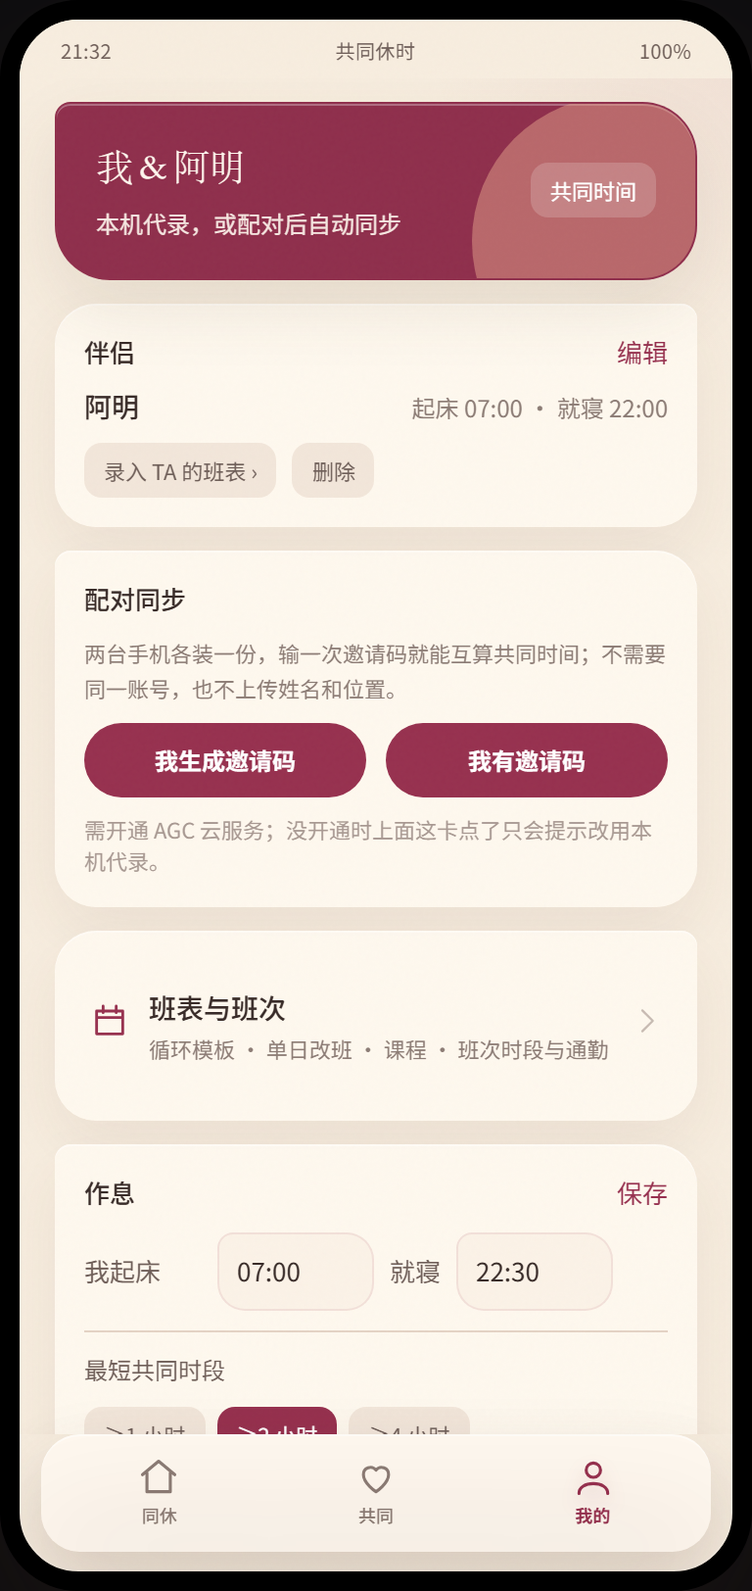
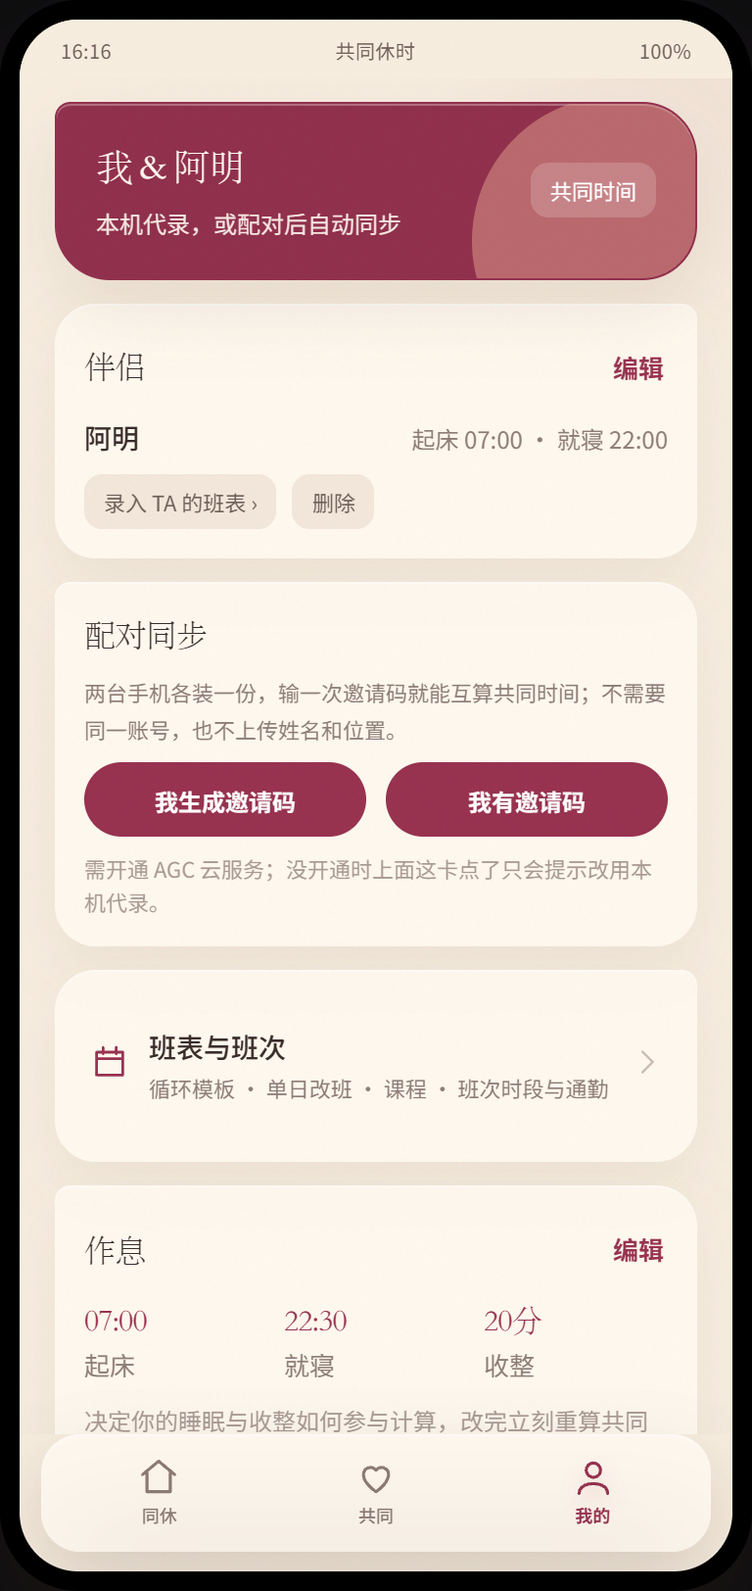
docs(prototype): 作息卡与编辑体眉标回灌，原型跟改 D-19＋N-01
App 侧一行未改：这两条的判定都是「改原型」，App 的只读三格＋「编辑」＋
高级设置折叠（MeView.rhythmCard）比原型的整卡内联可编辑更简，EditorialSection
的眉标版式也是原型欠的账。

原型跟改后顺带消掉三处自相矛盾：折叠脚注把「收整」当成引擎默认值（它是三个
常驻主参数之一）、卡头写「四个主入口」却只画得出 3 行、D-15/D-16 各自挂起的
「留给这轮定」的口径差。伴侣与配对同步的合卡属主观结构差，只登记不合并。

diff --git a/docs/prototype/index.html b/docs/prototype/index.html
@@ -249,6 +249,28 @@ body.lean-mode .arow::before{content:"";position:absolute;left:0;top:18px;width:
 body.lean-mode .arow:hover{transform:translateX(3px)}
 body.lean-mode .arow+.arow{border-top:1px solid color-mix(in srgb,var(--divider) 72%,transparent)}
 body.lean-mode .answer-value{font-family:"Iowan Old Style","Songti SC","STSong",serif;font-size:17px;font-weight:500;letter-spacing:-.025em}
+/* N-01：App 的 EditorialSection 版式（component/EditorialSection.ets）——眉标 + 衬线小标题 + 右侧动作。
+   眉标在 App 长辈模式下收起，所以只算装饰，正文含义全在小标题里。 */
+body.lean-mode .sect-head{padding:15px 2px 0}
+body.lean-mode .answer-card .sect-head{padding-left:10px}
+body.lean-mode .sect-eyebrow{color:var(--brand_pink);font-size:13px;line-height:1.1;letter-spacing:.08em;margin-bottom:5px}
+body.lean-mode .sect-row{display:flex;align-items:center;gap:8px}
+body.lean-mode .sect-title{flex:1;font-family:"Iowan Old Style","Songti SC","STSong",serif;font-size:21px;font-weight:500;
+letter-spacing:-.035em;line-height:1.15;color:var(--text_primary)}
+body.lean-mode .sect-act{flex:0 0 auto;font-size:13px;font-weight:600;color:var(--brand_pink);cursor:pointer;padding:8px 2px}
+/* D-19：App 的 EditorialCard 卡头（MeView.cardHead）是 16fp 衬线 + 右侧 13fp 品牌色动作 */
+body.lean-mode .cd-head{display:flex;align-items:center;gap:8px}
+body.lean-mode .cd-title{flex:1;font-family:"Iowan Old Style","Songti SC","STSong",serif;font-size:16px;font-weight:500;
+letter-spacing:-.02em;color:var(--text_primary)}
+body.lean-mode .cd-act{flex:0 0 auto;font-size:13px;font-weight:600;color:var(--brand_pink);cursor:pointer;padding:8px 2px}
+/* D-19：三个主参数常驻为只读格，视界与最短共同时段收进「高级设置」折叠 */
+body.lean-mode .stat-row{display:flex;gap:8px}
+body.lean-mode .stat{flex:1;display:flex;flex-direction:column;gap:2px}
+body.lean-mode .stat b{font-family:"Iowan Old Style","Songti SC","STSong",serif;font-size:16px;font-weight:500;
+letter-spacing:-.02em;line-height:1.2;color:var(--brand_pink)}
+body.lean-mode .stat span{font-size:13px;color:var(--text_tertiary)}
+body.lean-mode .adv-head{display:flex;align-items:center;gap:5px;min-height:44px;font-size:13px;color:var(--text_secondary);cursor:pointer}
+body.lean-mode .adv-head .cw{flex:0 0 auto;color:var(--text_tertiary)}
 body.lean-mode .chip{
 min-height:28px;border-radius:9px;padding:5px 10px;background:color-mix(in srgb,var(--fill_weak) 82%,transparent);
 font-size:11px;transition:transform 550ms cubic-bezier(.22,1,.36,1),opacity 350ms cubic-bezier(.22,1,.36,1)
@@ -256,6 +278,8 @@ font-size:11px;transition:transform 550ms cubic-bezier(.22,1,.36,1),opacity 350m
 body.lean-mode .chip:hover{transform:translateY(-1px)}
 body.lean-mode .chip:active,body.lean-mode .btn:active{transform:scale(.98)}
 body.lean-mode .chip.on{background:var(--brand_pink);color:#fff}
+/* D-16：回到本周的那颗——品牌色淡底 + 品牌色字，12fp / radius 10（同 WeekScheduleView.currentWeekChip） */
+body.lean-mode .chip.soft{background:var(--brand_pink_bg);color:var(--brand_pink);font-weight:600;font-size:12px;border-radius:10px;padding:4px 8px}
 body.lean-mode .chip.blue-on{background:var(--brand_pink);color:#fff}
 body.lean-mode .tag{border-radius:5px;padding:4px 7px;font-size:9px;letter-spacing:.02em}
 body.lean-mode .btn{
@@ -492,6 +516,8 @@ function seedState(){
     seg:'window', view:'list', filter:'ALL',
     calY:dayParts(TODAY).y, calM:dayParts(TODAY).m, weekStart:TODAY - (weekdayOf(TODAY) - 1),
     sheet:null, sheetWin:null, dayOpen:null, anchorWhich:'anchor',
+    // D-19：作息卡默认只读，「编辑」态与「高级设置」折叠各自独立于全局参数
+    meEdit:false, meDraft:null, advOpen:false,
     dlg:null, privacy:false,
     params:defaultParams(),
     partner:{ nick:'阿明', wakeMin:420, bedMin:1320, windDownMin:20, exists:true },
@@ -788,7 +814,7 @@ seedPlans();
 compute();
 /* ========== 4. 图标（SymbolGlyph 替身） ========== */
 var PATHS = {
-  chevL:'M15 4l-8 8 8 8', chevR:'M9 4l8 8-8 8',
+  chevL:'M15 4l-8 8 8 8', chevR:'M9 4l8 8-8 8', chevU:'M6 14l6-6 6 6', chevD:'M6 10l6 6 6-6',
   house:'M3 10.5 12 3l9 7.5M5.5 9.5V20h13V9.5',
   heart:'M12 20s-7-4.6-7-9.5A3.9 3.9 0 0 1 12 8a3.9 3.9 0 0 1 7 2.5C19 15.4 12 20 12 20z',
   calendar:'M4 6h16v14H4zM4 10h16M8 3v4M16 3v4',
@@ -878,7 +904,19 @@ function answerRow(label, value, sub, act, data){
     + '<div class="answer-value">' + value + '</div>' + (sub ? '<div class="t11 c3">' + sub + '</div>' : '') + '</div>'
     + '<span style="color:var(--text_disabled)">' + ic('chevR', 16) + '</span></div>';
 }
-/* 精简版首页：一屏只回答三个问题——今晚能吃饭吗 / 下个完整同休日 / 最近能不能出行 */
+/** EditorialSection 的镜像：眉标 + 衬线小标题 + 可选右侧动作；内容紧接其后自行拼接。 */
+function sectHead(eyebrow, title, actHtml){
+  return '<div class="sect-head"><div class="sect-eyebrow">' + eyebrow + '</div>'
+    + '<div class="sect-row"><div class="sect-title">' + title + '</div>' + (actHtml || '') + '</div></div>';
+}
+/** EditorialCard 的卡头镜像（MeView.cardHead）：卡内标题比小节标题小一档，右侧是纯文字动作。 */
+function cdHead(title, src, actHtml){
+  return '<div class="cd-head"><div class="cd-title">' + title + srcTag(src) + '</div>' + (actHtml || '') + '</div>';
+}
+/** 与 feature/…/model/RhythmRules.ets 的 horizonLabel / minSlotLabel 同一口径。 */
+function horizonLabel(d){ var m = Math.round(d / 30); return m < 1 ? '未来 ' + d + ' 天' : '未来 ' + m + ' 个月'; }
+function minSlotLabel(v){ return '≥ ' + (v % 60 === 0 ? (v / 60) + ' 小时' : v + ' 分钟'); }
+/* 精简版首页：一屏只回答三个问题——今晚能一起吗 / 下个完整同休日 / 最近能出行吗（措辞同 D-14 定稿后的 App） */
 function leanDaysTxt(w){
   var fd = Math.floor(w.start / MIN), ld = Math.floor((w.end - 1) / MIN);
   return ld > fd ? (ld - fd + 1) + ' 天（跨夜）' : duration(w.end - w.start);
@@ -926,13 +964,14 @@ function scrHomeLean(){
       + (cc.alt ? '<span class="chip" data-act="reschedule" data-id="' + cp.id + '">改到 ' + hm(cc.alt.start) + '</span>' : '') + '</div>';
   }
   html += '<div class="card answer-card mt12">'
-    + answerRow('今晚 / 明晚能一起吃饭吗', meal
+    + sectHead('三个问题', '先看结论', '<span class="sect-act" data-act="refresh">刷新</span>')
+    + answerRow(pt.exists ? '今晚能一起吗' : '今晚我有空吗', meal
       ? (Math.floor(meal.start / MIN) === TODAY ? '今晚' : '明晚') + ' ' + hm(Math.max(meal.start, Math.floor(meal.start / MIN) * MIN + 1050)) + ' 之后有空'
       : '这两天没有晚饭时段', meal ? endLabel(meal.start, meal.end) : '换个筛选看看更早的窗口',
       'openWin', meal ? 'data-w="' + meal.start + '" data-e="' + meal.end + '"' : (w ? 'data-w="' + w.start + '" data-e="' + w.end + '"' : 'data-w="0"'))
     + answerRow('下个完整同休日', full ? mdw(Math.floor(full.start / MIN)) : '视界内暂无',
       full ? leanDaysTxt(full) + ' · 双方零排班' : '', 'filter', 'data-f="FULL_DAY"')
-    + answerRow('最近能不能出行', trip ? mdw(Math.floor(trip.start / MIN)) + ' 起' : '暂无 ≥24 小时段',
+    + answerRow('最近能出行吗', trip ? mdw(Math.floor(trip.start / MIN)) + ' 起' : '暂无 ≥24 小时段',
       trip ? '连着 ' + leanDaysTxt(trip) : '', 'filter', 'data-f="GTE24H"')
     + '</div>';
   var free = 0;
@@ -1007,8 +1046,8 @@ function windowMiniRow(w){
 function scrCoTime(){
   var html = '<div class="page"><div class="hd" style="padding-bottom:6px"><div class="col lw" style="gap:2px">'
     + '<div class="t17 b7">共同时间' + srcTag('CoTimeView.ets') + '</div>'
-    + '<div class="t11 c3">' + (S.partner.exists ? esc(S.partner.nick) + ' · 未来 '
-      + (S.lean ? Math.round(S.params.horizonDays / 30) + ' 个月' : S.params.horizonDays + ' 天') : '单人模式 · 仅我的空闲') + '</div></div>'
+    + '<div class="t11 ' + (S.partner.exists ? 'pink' : 'c3') + '">'
+    + (S.partner.exists ? esc(S.partner.nick) : '单人模式') + ' · ' + horizonLabel(S.params.horizonDays) + '</div></div>'
     + '</div><div class="body">'
     + '<div class="seg" style="margin-bottom:8px"><button class="' + (S.seg === 'window' ? 'on' : '') + '" data-act="seg" data-v="window">窗口</button>'
     + '<button class="' + (S.seg === 'plan' ? 'on' : '') + '" data-act="seg" data-v="plan">计划</button></div>';
@@ -1140,9 +1179,12 @@ function coWeekGrid(){
     : '点某一天看当日明细、临时改班。';
   return '<div class="card"><div class="row between" style="margin-bottom:6px">'
     + '<span class="chip" data-act="weekNav" data-k="-1">' + ic('chevL', 12) + '</span>'
-    + '<span class="t13 b5" data-act="weekToday" style="cursor:pointer">' + md(ws) + ' – ' + md(ws + 6) + (ws === curWeek ? '' : ' · 回本周') + srcTag('CoTimeView.ets') + '</span>'
+    + '<span class="t13 b5" data-act="weekToday" style="cursor:pointer">' + md(ws) + ' – ' + md(ws + 6) + srcTag('CoTimeView.ets') + '</span>'
     + '<span class="chip" data-act="weekNav" data-k="1">' + ic('chevR', 12) + '</span></div>'
-    + '<div class="t10" style="color:var(--text_hint);text-align:right;margin-bottom:2px">纵轴 ' + pad2(h0) + ':00–' + (h1 >= 24 ? '24' : pad2(h1)) + ':00</div>'
+    /* D-16 已落地的形状：纵轴说明与「本周」同排右对齐，压在星期行之上，不挤进那 7 列 */
+    + '<div class="row gap8" style="justify-content:flex-end;align-items:center;margin-bottom:2px">'
+    + '<span class="t10" style="color:var(--text_hint)">纵轴 ' + pad2(h0) + '–' + (h1 >= 24 ? '24' : pad2(h1)) + '</span>'
+    + '<span class="chip soft" data-act="weekToday">本周</span></div>'
     + '<div class="row" style="margin-bottom:4px"><div style="width:26px;flex:0 0 26px"></div><div class="whead">' + head + '</div></div>'
     + '<div style="display:flex;--hh:' + HOUR_H + 'px;--gh:' + GH + 'px"><div class="clabels">' + labels + '</div><div class="ccols">' + cols + '</div></div>'
     + '<div class="row wrapf gap8 mt8" style="font-size:10px;color:var(--text_hint)">'
@@ -1212,15 +1254,34 @@ function scrHub(){
     { s:'editor', i:'gear', t:'班次类型', d:'时段、通勤、夜班恢复、颜色' },
     { s:'ocr', i:'camera', t:'拍照识别课表', d:'Core Vision Kit 本地 OCR' }
   ];
-  if (S.lean) {
-    entries = entries.filter(function(x){ return x.s !== 'month' && x.s !== 'ocr' && x.s !== 'card'; });
-    entries[0].d = '序列 + 锚点，一次配置自动铺开';
-  }
-  html += entries.map(function(x){
-    return '<div class="li mt10" data-act="go" data-s="' + x.s + '"><div style="color:var(--brand_pink)">' + ic(x.i, 20) + '</div>'
+  var liRow = function(x, first){
+    return '<div class="li' + (first ? ' mt10' : '') + '" ' + (x.nav || 'data-act="go" data-s="' + x.s + '"')
+      + '><div style="color:var(--brand_pink)">' + ic(x.i, 20) + '</div>'
       + '<div class="col lw gap2" style="text-align:left"><div class="t14 b5">' + x.t + srcTag('pages/' + x.s + '.ets') + '</div>'
       + '<div class="t11 c3">' + x.d + '</div></div><div style="color:var(--text_disabled)">' + ic('chevR', 16) + '</div></div>';
-  }).join('');
+  };
+  if (S.lean) {
+    /* 精简版按 App 的 MAIN_ENTRIES 同序同名：班次类型 / 循环模板 / 课程表 / 临时调整。
+       App 的第四条是日详情改班（点某一天），不是整月涂抹页，所以这里连跳转一起换。 */
+    var byKey = {};
+    entries.forEach(function(x){ byKey[x.s] = x; });
+    /* 四条的标题/副文案/图标逐字照抄 ScheduleHub.ets 的 MAIN_ENTRIES，
+       副文案里不掺动态参数：App 那句本身就是静态的「未来视界」。 */
+    byKey.editor.d = '定义上下班时刻、通勤与夜班恢复';
+    byKey.cycle.d = '白白夜夜休休等序列 + 锚点，自动铺开未来视界内的每一天';
+    byKey.course.t = '课程表';
+    byKey.course.i = 'pencil';
+    byKey.course.d = '学生场景：粘贴课表文本或手动添加每周固定课程';
+    byKey.month.t = '临时调整';
+    byKey.month.d = '给某一天单独改班或请假，优先于循环模板';
+    byKey.month.nav = 'data-act="openDay" data-d="' + TODAY + '"';
+    entries = [byKey.editor, byKey.cycle, byKey.course, byKey.month];
+    /* N-01：App 把这四条收进一张卡，卡头是 EditorialSection 的「MAIN / 四个主入口」。 */
+    html += '<div class="card mt12">' + sectHead('MAIN', '四个主入口')
+      + entries.map(function(x, i){ return liRow(x, i === 0); }).join('') + '</div>';
+    return html + '</div></div>';
+  }
+  html += entries.map(function(x){ return liRow(x, true); }).join('');
   return html + '</div></div>';
 }
 /* WeekScheduleView 移植：HOUR_H=34 / 24 格 / LABEL_W=26 */
@@ -1489,8 +1550,8 @@ function scrMeLean(){
       : S.pairState === 'WAITING' ? '等待对方输码 · ' + esc(S.inviteCode)
       : !S.agcOn ? '本机代录 · 数据只写在本机的应用沙箱里' : '本机代录，或配对后自动同步') + '</div></div>'
     + '<span class="chip" style="background:#ffffff2e;color:#fff" data-act="go" data-s="cotime">共同时间</span></div></div>';
-  html += '<div class="card col gap8"><div class="row between"><div class="t13 b5">伴侣' + srcTag('MeView.ets') + '</div>'
-    + (pt.exists ? '<span class="t13 pink" data-act="editPartner">编辑</span>' : '<span class="t13 pink" data-act="addPartner">+ 添加</span>') + '</div>';
+  html += '<div class="card col gap8">' + cdHead('伴侣', 'MeView.ets',
+    pt.exists ? '<span class="cd-act" data-act="editPartner">编辑</span>' : '<span class="cd-act" data-act="addPartner">+ 添加</span>');
   if (pt.exists) {
     html += '<div class="row gap8"><span class="t14 b5">' + esc(pt.nick) + '</span><div class="lw"></div>'
       + '<span class="t12 c3">起床 ' + hm(pt.wakeMin) + ' · 就寝 ' + hm(pt.bedMin) + '</span></div>'
@@ -1502,8 +1563,8 @@ function scrMeLean(){
   }
   html += '</div>';
   /* 配对：一条流程 + 两档可见范围。AGC 未开通时按 MeView.ets 的真实行为——按钮照常，点下去 toast 降级 */
-  html += '<div class="card col gap8"><div class="row between"><div class="t13 b5">配对同步' + srcTag('MeView.ets') + '</div>'
-    + (S.pairState === 'PAIRED' ? '<span class="chip" data-act="syncNow">立即同步</span>' : '') + '</div>';
+  html += '<div class="card col gap8">' + cdHead('配对同步', 'MeView.ets',
+    S.pairState === 'PAIRED' ? '<span class="chip" data-act="syncNow">立即同步</span>' : '');
   if (S.pairState === 'PAIRED') {
     html += '<div class="row gap8"><span class="tag" style="background:var(--success_green)">已配对</span>'
       + '<span class="t14 b5 lw">' + (S.partner.exists ? esc(S.partner.nick) : '对方') + '</span></div>'
@@ -1535,21 +1596,44 @@ function scrMeLean(){
     + '<div class="col lw gap2" style="text-align:left"><div class="t14 b5">班表与班次</div>'
     + '<div class="t11 c3">循环模板 · 单日改班 · 课程 · 班次时段与通勤</div></div>'
     + '<span style="color:var(--text_disabled)">' + ic('chevR', 16) + '</span></div></div>';
-  html += '<div class="card col gap10"><div class="row between"><div class="t13 b5">作息' + srcTag('MeView.ets') + '</div>'
-    + '<span class="t13 pink" data-act="saveParams">保存</span></div>'
-    + '<div class="row gap8"><span class="t13 c2" style="flex:0 0 60px">我起床</span><input class="inp" id="f-wake" value="' + hm(p.wakeMin) + '" style="width:80px">'
-    + '<span class="t13 c2">就寝</span><input class="inp" id="f-bed" value="' + hm(p.bedMin) + '" style="width:80px"></div>'
-    + '<div class="hr-line" style="margin:0"></div>'
-    + '<div class="t12 c2">最短共同时段</div><div class="row gap6">'
-    + [[60, '≥1 小时'], [120, '≥2 小时'], [240, '≥4 小时']].map(function(x){
-      return '<span class="chip' + (p.minSlotMin === x[0] ? ' on' : '') + '" data-act="minSlot" data-v="' + x[0] + '">' + x[1] + '</span>';
-    }).join('') + '</div>'
-    + '<div class="t12 c2 mt4">计算视界</div><div class="row gap6">'
-    + [[30, '1 个月'], [90, '3 个月'], [180, '6 个月']].map(function(x){
-      return '<span class="chip' + (p.horizonDays === x[0] ? ' on' : '') + '" data-act="horizon" data-v="' + x[0] + '">' + x[1] + '</span>';
-    }).join('') + '</div>'
-    + '<div class="t11 ch">其余阈值（收整缓冲、半天/整日/自习判定）用引擎默认值，不占用界面。</div></div>';
-  html += '<div class="card col gap10"><div class="t13 b5">数据' + srcTag('MeView.ets') + '</div>'
+  /* D-19：与 App 的 MeView.rhythmCard 同构——三个主参数只读常驻，视界与最短共同时段收进
+     「高级设置」折叠，点卡头「编辑」才换成输入框。原型原来是整卡内联可编辑＋常驻「保存」，
+     比 App 多一层常态噪声，而且收整缓冲被写在"其余阈值"里，与 App 的三主参数口径矛盾。 */
+  var e = S.meEdit, dft = S.meDraft || {};
+  var val = function(k, dv){ return dft[k] !== undefined ? dft[k] : dv; };
+  var msel = +val('minSlotMin', p.minSlotMin);
+  var adv = '<div class="adv-head" data-act="toggleAdv"><span class="lw">高级设置（视界 / 最短时段）</span>'
+    + '<span class="cw">' + ic(S.advOpen ? 'chevU' : 'chevD', 14) + '</span></div>';
+  html += '<div class="card col gap10">' + cdHead('作息', 'MeView.ets', e ? '' : '<span class="cd-act" data-act="editParams">编辑</span>');
+  if (e) {
+    html += '<div class="row gap8 wrapf">'
+      + '<span class="row gap6"><span class="t13 c2">起床</span><input class="inp" id="f-wake" value="' + val('wake', hm(p.wakeMin)) + '" style="width:80px"></span>'
+      + '<span class="row gap6"><span class="t13 c2">就寝</span><input class="inp" id="f-bed" value="' + val('bed', hm(p.bedMin)) + '" style="width:80px"></span>'
+      + '<span class="row gap6"><span class="t13 c2">收整(分)</span><input class="inp" id="f-wind" value="' + val('wind', String(p.windDownMin)) + '" style="width:64px"></span></div>' + adv;
+    if (S.advOpen) {
+      html += '<div class="row gap8"><span class="t13 c2" style="flex:0 0 84px">计算视界(天)</span>'
+        + '<input class="inp" id="f-horizon" value="' + val('horizon', String(p.horizonDays)) + '" style="width:80px">'
+        + '<span class="t11 ch lw">未来多少天参与计算（7–366）</span></div>'
+        + '<div class="row gap6">' + [60, 120, 240].map(function(v){
+          return '<span class="chip' + (msel === v ? ' on' : '') + '" data-act="minSlot" data-v="' + v + '">' + minSlotLabel(v) + '</span>';
+        }).join('') + '</div>'
+        + '<div class="t11 ch">短于此段的共同空闲会被直接丢掉，不算成一个窗口。</div>';
+    }
+    html += '<div class="row gap10 w100"><button class="btn lw" data-act="saveParams">保存</button>'
+      + '<button class="btn ghost lw" data-act="cancelParams">取消</button></div>';
+  } else {
+    html += '<div class="stat-row"><div class="stat"><b>' + hm(p.wakeMin) + '</b><span>起床</span></div>'
+      + '<div class="stat"><b>' + hm(p.bedMin) + '</b><span>就寝</span></div>'
+      + '<div class="stat"><b>' + p.windDownMin + '分</b><span>收整</span></div></div>'
+      + (p.bedMin < p.wakeMin ? '<div class="t12 c2">就寝已过零点，按次日凌晨计入</div>' : '')
+      + '<div class="t12 ch">决定你的睡眠与收整如何参与计算，改完立刻重算共同时间。</div>' + adv;
+    if (S.advOpen) {
+      html += '<div class="t12 c2">视界 ' + p.horizonDays + ' 天 · 最短共同时段 ' + minSlotLabel(p.minSlotMin) + '</div>'
+        + '<div class="t11 ch">其余阈值（夜班窗口、半天/整日/可出行判定）用引擎默认值。</div>';
+    }
+  }
+  html += '</div>';
+  html += '<div class="card col gap10">' + cdHead('数据与隐私', 'MeView.ets')
     + '<div class="row gap8" data-act="privacy" style="cursor:pointer"><div style="color:var(--success_green)">' + ic('shield', 18) + '</div>'
     + '<span class="t14 lw">隐私政策</span><span style="color:var(--text_disabled)">' + ic('chevR', 15) + '</span></div>'
     + '<div class="hr-line" style="margin:0"></div>'
@@ -1909,8 +1993,17 @@ var ACT = {
   go:function(el){ S.screen = el.dataset.s; S.sheet = null; if (tabOf()[S.screen] !== undefined) { S.tab = tabOf()[S.screen]; } render(); },
   tab:function(el){ S.screen = el.dataset.s; S.tab = +el.dataset.i; render(); },
   viewPlans:function(){ S.screen = 'cotime'; S.seg = 'plan'; S.tab = 1; render(); },
-  minSlot:function(el){ S.params.minSlotMin = +el.dataset.v; syncSliders(); recompute(); render(); toast('最短共同时段 ' + duration(S.params.minSlotMin)); },
-  horizon:function(el){ S.params.horizonDays = +el.dataset.v; syncSliders(); recompute(); render(); toast('计算视界 ' + Math.round(S.params.horizonDays / 30) + ' 个月'); },
+  /* D-19：档位芯片只活在「编辑 · 高级设置」里，所以先写草稿，保存才落全局并重算 */
+  minSlot:function(el){ if (S.meDraft) { S.meDraft.minSlotMin = +el.dataset.v; render(); } },
+  editParams:function(){
+    var p = S.params;
+    S.meDraft = { wake:hm(p.wakeMin), bed:hm(p.bedMin), wind:String(p.windDownMin),
+      horizon:String(p.horizonDays), minSlotMin:p.minSlotMin };
+    S.meEdit = true; render();
+  },
+  cancelParams:function(){ S.meEdit = false; S.meDraft = null; render(); },
+  toggleAdv:function(){ S.advOpen = !S.advOpen; render(); },
+  refresh:function(){ recompute(); render(); toast('已重算未来 ' + S.params.horizonDays + ' 天'); },
   filter:function(el){ S.filter = el.dataset.f; S.seg = 'window'; S.screen = 'cotime'; S.view = 'list'; render(); },
   seg:function(el){ S.seg = el.dataset.v; render(); },
   setView:function(el){ S.view = el.dataset.v; render(); },
@@ -2089,6 +2182,8 @@ var ACT = {
     if (wind < 0) { toast('收整时长不能为负'); return; }
     if (hz < 7 || hz > 366) { toast('计算视界需在 7–366 天之间'); return; }
     S.params.wakeMin = w; S.params.bedMin = b; S.params.windDownMin = wind; S.params.horizonDays = hz;
+    if (S.meDraft) { S.params.minSlotMin = S.meDraft.minSlotMin; }
+    S.meEdit = false; S.meDraft = null;
     syncSliders();
     recompute(); render(); toast('作息参数已保存');
   },
@@ -2321,7 +2416,12 @@ function syncSliders(){
 }
 document.addEventListener('input', function(e){
   var el = e.target;
-  if (!el.dataset || el.dataset.k === undefined || el.type !== 'range') { return; }
+  if (!el.dataset || el.dataset.k === undefined || el.type !== 'range') {
+    /* D-19：展开/收起高级设置会整段重画，手改过的输入框要先存进草稿，否则一折叠就回到旧值 */
+    var mk = { 'f-wake':'wake', 'f-bed':'bed', 'f-wind':'wind', 'f-horizon':'horizon' }[el.id];
+    if (mk && S.meEdit && S.meDraft) { S.meDraft[mk] = el.value; }
+    return;
+  }
   S.params[el.dataset.k] = +el.value;
   el.nextElementSibling.textContent = (SLIDERS.filter(function(x){ return x[0] === el.dataset.k; })[0] || [,,,'',,function(v){ return v; }])[5](+el.value);
   recompute();

diff --git a/docs/design/ui-parity-2026-09-23.md b/docs/design/ui-parity-2026-09-23.md
@@ -8,10 +8,10 @@
 docs/design/ui-parity-2026-09-23/
   app/         实机截图 89 张（1308×2880；批次 A 复验刷新 7 张、批次 B 复验刷新 8 张并新增 1 张 D-25 取证、批次 C 新增 17 张（`33`~`50`，`45` 未使用）并在门禁轮刷新 5 张）
   layout/      同名 uitest dumpLayout JSON 89 份（页面布局树；`taptext.sh` 会再生成一个 `layout/_tap.json` 临时件，不要提交）
-  prototype/   精简版原型截图 19 张（文件名与 app/ 一一对应）
+  prototype/   精简版原型截图 22 张（文件名与 app/ 一一对应；`p5x-` 三张是 2026-09-24 D-19 原型轮的作息卡三态）
 ```
 
-对照规则：`app/NN-xxx.png` ↔ `prototype/NN-xxx.png`。`p4x-` 前缀是原型独有的补充态。
+对照规则：`app/NN-xxx.png` ↔ `prototype/NN-xxx.png`。`p4x-` / `p5x-` 前缀是原型独有的补充态。
 
 ---
 
@@ -64,7 +64,7 @@ docs/design/ui-parity-2026-09-23/
 | D-16 | 共同时间·周历 | P2 | 「纵轴 06–24」挤进星期行并折行；「本周」按钮原型没有 | 改 App |
 | D-17 | 首页 hero | P2 | 缺原型的「去计划 ↗」出口与「时长/时段/标签」三段结构 | 缺证据（见 §6-E02） |
 | D-18 | 我的 hero | P2 | 缺原型的「共同时间」按钮，hero 纯展示 | 改 App |
-| D-19 | 我的·作息 | P2 | 原型内联可编辑＋「保存」；App 只读三格＋「编辑」＋高级设置折叠 | 改原型（App 更简） |
+| D-19 | 我的·作息 | P2 | 原型内联可编辑＋「保存」；App 只读三格＋「编辑」＋高级设置折叠 | 改原型（App 更简）**· 2026-09-24 已回灌原型，见 §4** |
 | D-20 | 我的·提醒与通知 | P1 | 整卡删除，且**连通知链路一起删**（默认值「需行动的通知＝开」，只删卡会留下关不掉的推送） | 改 App（已定稿 2026-09-24） |
 | D-21 | 我的·无障碍 | P1 | 整卡删除；两行是只读状态、一行是低概率兜底开关，删卡不影响任何适老化行为 | 改 App（已定稿 2026-09-24） |
 | D-22 | 日程录入·摘要 | P1 | 有数据时四项恒为「0 班次 / 未设 / 0 临时调整 / 0 课程」＋「待录入」，同屏周历与日详情却能画出那条覆盖；catch 静默无日志 | 改 App（2026-09-24 复采新增，见 §8） |
@@ -364,7 +364,7 @@ App 把摘要与编辑合并成一屏选择器，用户点日格后看不到"这
   - 主体三态：单人 →`单人模式`；拿得到对方数据 → 对方昵称（昵称为空兜 `伴侣`）；**配对了但当天拿不到数据 →`我的空闲`**。第三态是本条清单之外多出来的一处：改前只看 `mode !== SOLO`，已配对却没数据时副标题念「我们」的空闲，而列表里其实是单机算出的我的一侧——这正是 §11 里卡片 `PAIR_PENDING` 修掉的同一类假话。页面下方那条 NoticeBar（`还不知道 TA 今天的日程`）继续负责解释，副标题只把主体改对，不重复整句。
   - 视界读数**进读模型**：`CommonTimePageData.horizonDays`（由 `getCommonTimePage()` 从 `SettingsStoreParams().horizonDays` 取），页面不再自己去摸参数；折月口径是 `feature` 新导出纯函数 `horizonLabel(days)`（满 30 天折月、四舍五入；不足一月照实念天，因为最短视界就是"只看本周"那一档 7 天，念成"0 个月"是假话）。
   - 删掉两条 string 资源（`cotime_subtitle_single` / `cotime_subtitle_partner`）。其中「已扣除双方的课程、班次、睡眠与收整缓冲」这句说明随压缩消失——不算丢披露：`收整` 本身在「我的 · 作息参数」是可编辑项（`MeView.ets:884,1251`），忙碌来源在日/窗口详情里按 `作息/忙碌` 逐条列着（批次 C 的 D-11/D-23）。
-  - **与原型残留的一处口径差**：原型 solo 分支写的是 `单人模式 · 仅我的空闲`（`docs/prototype/index.html:1010-1011`），不带视界；本条建议明确要「单人模式 · 未来 4 个月」，按本文件口径落地。原型另外还有个非精简分支念 `N 天`，精简版（首发口径）走月份。这条差记在这里，等 §7 批次 D 的 D-19＋N-01 那轮一起决定原型是否跟改。
+  - **与原型残留的一处口径差**：原型 solo 分支写的是 `单人模式 · 仅我的空闲`（`docs/prototype/index.html:1010-1011`），不带视界；本条建议明确要「单人模式 · 未来 4 个月」，按本文件口径落地。原型另外还有个非精简分支念 `N 天`，精简版（首发口径）走月份。这条差记在这里，等 §7 批次 D 的 D-19＋N-01 那轮一起决定原型是否跟改。**（2026-09-24 已关闭：原型跟改，见 §4 的「D-19 ＋ N-01」一节。）**
   - 复验（clean 出包 → `hdc install -r` → `aa force-stop` ＋ `aa start` 冷启 → 点「共同」Tab → `shot.sh`）：`app/03-cotime.png`（`layout/03-cotime.json`）页头两行 = `共同时间` / `单人模式 · 未来 4 个月`，bounds `[63,313][525,366]`（改前同一行是整句解释，右缘占到 `1201`，几乎一行写满）。**只验到单人这一态**：昵称态与「我的空闲」态需要设备上有伴侣档案，仍与 E-02 一起卡在模拟器输入法/无第二台机；两态的分支是同一行三元表达式，且 `horizonDays` 透传已写成离线断言。离线 `node tools/test/run.mjs`：198 passed / 0 failed（新增 `horizon_label_rounds_to_months_and_keeps_short_views_in_days` 与两条 `horizonDays` 透传断言）、`typecheck: 0 errors`、`copy: PASS`；本轮 clean 出包 `ArkTS:WARN` 仍为 346，与基线同值。
 
 - **D-16** 周历：`纵轴 06–24` 挤在星期行左侧并折成两行（原型放在网格右上）；「本周」按钮原型没有——保留（有用），但移到星期行右侧与纵轴说明同排。
@@ -374,7 +374,7 @@ App 把摘要与编辑合并成一屏选择器，用户点日格后看不到"这
   - 折行是位置造成的，不是文案太长：改前左槽里是两枚上下堆着的 Text（`Column() { Text('纵轴'); Text('06–24') }`），槽宽就是纵轴刻度的 `LABEL_W = 26vp`（≈133px），整句放不下才拆成两枚。挪进右上这一排后一行写完，读屏也跟着读成一句而不是两截。
   - **只改共同模式，日程模式保持原样**：这个组件有两个消费方——共同时间页的「周历」（`CoTimeView.ets:683`）和班表中心页内的周网格（`ScheduleHub.ets:334`）。后者是整 24 小时轴、左侧刻度自解释，没有纵轴说明可放。中途试过两种模式都渲染这一排，设备图上是一颗 chip 悬在一整行空白右侧，像布局事故；于是 `axisLine()` 只在共同模式渲染，日程模式的「本周」留在周导航行原位。chip 抽成 `currentWeekChip()` 两处复用，不复制一份。
   - **读屏行为没变**：改前那颗 `accessibilityLevel('no')` 挂在承载两枚 Text 的父 Column 上——ArkUI 只在 **Text 自身**标 `no` 才会从可访问性树里消失，挂父容器漏子节点，所以这句本来就在读屏树里。本轮一度把 `no` 补到 Text 上，结果复验的 `dumpLayout` 里 grep 不到这句，看不出改动是否生效；按"本条只是位置改动"把它删掉了。同一处注释里说"左侧逐小时刻度只给眼睛用"，那枚 `no` 照旧挂在父 Column 上**没动**——顺着这条查出它本来就没生效（刻度仍在树里），另立 **D-29**。
-  - 文案照旧：App 写「纵轴 06–24」，原型写「纵轴 06:00–24:00」。本条只管位置与折行，格式差留给 D-19＋N-01 那轮一起定。
+  - 文案照旧：App 写「纵轴 06–24」，原型写「纵轴 06:00–24:00」。本条只管位置与折行，格式差留给 D-19＋N-01 那轮一起定。**（2026-09-24 已关闭：原型跟改成 `纵轴 06–24`，见 §4 的「D-19 ＋ N-01」一节。）**
   - 复验（clean 出包 → `hdc install -r` → `aa force-stop` ＋ `aa start` 冷启 → 共同·周历 / 我的·班表与班次 → `shot.sh`）：
     - `app/04-cotime-week.png`（`layout/04-cotime-week.json`）：`纵轴 06–24` 单节点 `[862,1099][1007,1132]`、`本周 [1035,1038][1189,1192]`（同一排，chip 行高包住说明）；改前同一处是 `纵轴 [136,1038][193,1071]` ＋ `06–24 [124,1071][205,1104]` 两枚、嵌在星期行 `[210,1038]` 的同一 y 区间里，`本周` 在周导航行 `[1035,856][1189,1010]`。
     - 第二消费方 `app/10-hub.png`（`layout/10-hub.json`）：与 §6 已提交的那张逐节点比对，文本与 bounds 全等，唯一差异是状态栏时钟 `02:25 → 03:24`——即日程模式这一侧确实没被改动波及。
@@ -387,6 +387,40 @@ App 把摘要与编辑合并成一屏选择器，用户点日格后看不到"这
   - **代价，实测到才写**：单人态那句 22 字副标题从 2 行变 3 行（文字列 `[343,548][1028,654]` → `[343,495][846,654]`，列宽 685px → 503px）。这是"在文字右侧塞一颗 267px 宽的按钮"的必然结果，不是布局错；**卡片本身没变高**——下一张卡的首行「伴侣与同步」改前改后都落在 `[119,880]`，多出来的一行是把标题往上顶了 53px，整页没有位移。代录态（18 字）与已配对态（17 字）副标题更短，**预计仍是 2 行，但没取证**——那两态要设备上有伴侣档案，与 §6-E02 同一处卡点。要不要顺手压那句副标题属文案改动，本条没要求，留给用户定。
   - 复验（clean 出包 → `hdc install -r` → `aa force-stop` ＋ `aa start` 冷启 → 「我的」→ `shot.sh`）：`app/06-me.png`（`layout/06-me.json`）pill bounds `[894,451][1161,605]`，与标题/副标题同一行、垂直居中。出口按真了就地图：点 pill 中心后 `dumpLayout` 头两行是 `共同时间 [63,220][345,306]` / `单人模式 · 未来 4 个月 [63,313][525,366]`，即落在共同时间页。同页的 `07-me-scrolled`、`08-me-bottom` 未刷新：整页没有位移，而本轮手动滑动的落点与 §6 链路规定的不一致，重拍只会引入滚动漂移。
   - 本轮无逻辑与常量改动：`node tools/test/run.mjs` 198 passed / 0 failed、`typecheck: 0 errors`、`copy: PASS`；clean 出包 `ArkTS:WARN` 346，与基线同值。
+
+---
+
+### D-19 ＋ N-01 · 作息卡与编辑体眉标回灌原型 · P2 · 改原型（2026-09-24 批次 D）
+
+- **归属**：两条都是 `改原型`，本轮 **App 一行未改**——只动 `docs/prototype/index.html` 的 `S.lean` 分支，所以没有构建、没有离线用例重跑（门禁在批次轮统一跑）。
+
+- **D-19 现象**：原型「我的 · 作息」整卡内联可编辑＋常驻「保存」＋常驻「计算视界」30/90/180 三颗 chip；App 是只读三格＋卡头「编辑」＋「高级设置」折叠（`MeView.ets:1237 rhythmCard()`）。App 更简，跟改原型。
+  - **改时才发现原型自己有一处矛盾**（不在本条清单里）：折叠里的脚注写「其余阈值（**收整缓冲**、半天/整日/可出行判定）用引擎默认值」，可收整在 App 是三个常驻主参数之一（`:1298-1302` 的 `paramStat` 起床/就寝/收整），不是引擎默认值。跟改后折叠里只剩视界与最短共同时段，脚注换成 App 那句 `其余阈值（夜班窗口、半天/整日/可出行判定）用引擎默认值。`（`:1319`）。
+  - 交互形状照抄：卡头「编辑」→ 三格换成输入框；折叠头 `高级设置（视界 / 最短时段）`（`:1352`）带 chevron；档位 chip（≥1/≥2/≥4 小时）只活在编辑态的折叠里，保存才落全局并重算；只读态展开折叠念 `视界 120 天 · 最短共同时段 ≥ 2 小时` 那两行。新增 `meEdit` / `meDraft` / `advOpen` 三个纯 UI 状态，与全局参数分开。
+  - **原型侧独有的一个坑**：折叠头一展开/收起就整段重画，输入框节点被重建。App 不怕这个——它的输入值存在 `@State`（`myWake`/`myBed`/`myWind`/`myHorizon`）里，重建视图不丢值；原型的值只活在 DOM 节点上，所以 `input` 委托监听里要把四个手改过的输入框收进 `meDraft`，否则"改了起床时间 → 点开高级设置 → 起床时间回到旧值"。
+  - 删掉的原型常驻件：整卡内联输入框、常驻「保存」、`计算视界` 30/90/180 chip 行、`ACT.horizon` 处理器（跟改后已无调用点）。
+
+- **N-01 现象**：App 用 `component/EditorialSection.ets`（眉标 + 衬线 21fp 小标题 + 右侧动作）作小节版式，原型早于该版式，页面上只有平铺粗体标题。
+  - **全仓真实存在的眉标只有两处**（`grep -n "EditorialSection(" --include=*.ets` → 2 个调用点）：`HomeView.ets:508` 的 `三个问题 / 先看结论 / 刷新`、`ScheduleHub.ets:381` 的 `MAIN / 四个主入口`。本条原表写的第三项 `EXTRA` **已随 D-04 删卡一起消失**，现在只剩两处引用：`EditorialSection.ets:35` 的注释、`docs/testing-checklist.md:346` 那条验收项（后者已与代码不符，见下面"有意没改"）。**所以 N-01 按 App 现状落，不照抄本条字面。**
+  - 原型侧新增两个镜像函数：`sectHead(眉标, 标题, 右侧动作)` 复刻 `EditorialSection`，`cdHead(标题, 来源, 右侧动作)` 复刻 `MeView.cardHead`（`:691`——卡内标题比小节标题小一档，衬线 16fp + 右侧 13fp 品牌色纯文字动作）。**非精简提案视图不受影响**：两个函数只被 lean 专用函数调用（`scrHomeLean` / `scrMeLean` / `scrHub` 的 `S.lean` 分支，`:988`、`:1646` 处提前 return），新 CSS 也一律挂在 `body.lean-mode` 下。
+  - 「我的」精简页四张有卡头的卡全部换成 `cdHead`（伴侣 / 配对同步 / 作息 / 数据），与 App 同为衬线 16fp；**「数据」改名「数据与隐私」**，对齐 `MeView.ets:1561`。
+
+- **顺带关掉上一轮挂起的两处口径差**（D-15、D-16 各自留的"留给 D-19＋N-01 那轮定"）：
+  - 共同时间副标题：原型 solo 分支原念 `单人模式 · 仅我的空闲`、非精简分支念 `N 天`。现在合并成一行，`horizonLabel(days)` 逐字照抄 `feature/src/main/ets/model/RhythmRules.ets:53`（满 30 天折月、不足一月照实念天），于是 `单人模式 · 未来 4 个月` / 有伴侣时 `阿明 · 未来 4 个月`，与 App 的 `CoTimeView.subtitle()` 同口径。机械核对：`仅我的空闲` 在全文件 **0 命中**。
+  - 周历纵轴：原型 `纵轴 06:00–24:00` → `纵轴 06–24`，与 `WeekScheduleView.axisLine()` 同格式；「本周」那颗补上 App 的 soft 配方（`brand_pink_bg` 底 + 品牌色字 + 12fp / radius 10），并挪到与纵轴说明同排右对齐、压在星期行之上。
+
+- **为"镜像自洽"多做的三处**（超出 D-19/N-01 字面，逐条列清；都不是新提案，是消解矛盾）：
+  - 首页三问跟到 D-14 定稿后的 App：`今晚能一起吗 / 下个完整同休日 / 最近能出行吗`，单人态第一问退化成 `今晚我有空吗`——与 App 同一处主语差，D-14 已明确允许。
+  - 「四个主入口」卡原样只画得出 3 行：卡头写着"四个"却只有 3 条，是 D-04 删 EXTRA 卡时留下的自相矛盾。补回第四条，并把四条的标题/副文案/图标逐字对齐 `ScheduleHub.ets:43-60` 的 `MAIN_ENTRIES`（班次类型 / 循环模板 / 课程表 / 临时调整）。课程表的图标从 `book` 换成 `pencil`，对应 App 的 `sys.symbol.square_and_pencil`。
+  - 第四条的跳转跟着换成 App 的链路：打开日详情改班（`data-act="openDay"`），不再是整月涂抹页——后者按 D-04 已无入口。
+
+- **有意没改的**（主观结构差，按约定列出等定，不顺手合并）：
+  - App 的「伴侣」与「配对同步」在**同一张卡**里（`MeView.ets:817 partnerSyncCard()`，卡头「伴侣与同步」），原型仍是两张。合卡会挪动下面所有卡的落点，与 D-18 那条"整页没有位移"的复验基线冲突，先登记。
+  - 只扫了「我的」精简页的卡头与首页/日程页两处眉标；计划、循环模板、课程表、班次类型各页的卡头仍是原型的非衬线粗体。App 侧对应位置是否统一用 `cardHead` 未逐页核，不在本条范围。
+  - `docs/testing-checklist.md:346` 的验收项还写着「日程页 `MAIN` / `EXTRA`」，而 EXTRA 卡已被 D-04 删除。属文档收口，与批次 E 的「班表中心」→「日程录入」措辞统一、`MeView.ets:29` 的「六段收纳」旧注释一起处理，本轮没动。
+
+- **证据（原型侧）**：`prototype/` 19 → 22 张。新增 `p50-me-rhythm-edit`（编辑态，折叠收起）、`p51-me-rhythm-edit-adv`（编辑态＋高级设置展开：计算视界输入框 + 三颗档位 chip）、`p52-me-rhythm-adv`（只读态＋高级设置展开：`视界 120 天 · 最短共同时段 ≥ 2 小时`）。14 张标准页全部重拍，承载本轮改动的是 `01-home`、`03-cotime`、`04-cotime-week`、`06-me`、`07-me-scrolled`、`08-me-bottom`、`12-hub-bottom`。
+- **校验方式**：`node --check` 抽取的 `<script>` 段通过；`.crdtest/proto-err.js` 把 17 个渲染态各跑一遍 `render()`，`Runtime.evaluate` 无 `exceptionDetails`、`Runtime.consoleAPICalled(error)` 0 条（输出 `ALL CLEAN (17 states)`）；上述 10 张逐张目视。**没做的**：本轮不改 App，所以没有设备复验，也没有跑 `tools/verify.mjs`——那两项属批次 D 门禁。
 
 ---
 
@@ -628,7 +662,7 @@ App 把摘要与编辑合并成一屏选择器，用户点日格后看不到"这
 
 | ID | 项 | 为什么不改 App |
 |---|---|---|
-| N-01 | `MAIN 四个主入口` / `EXTRA` / `三个问题·先看结论` 眉标与标题 | 来自 `docs/06` §3.10 C 的编辑体版式（`component/EditorialSection.ets:35` 已按长辈模式收起）。原型早于该版式，属**改原型** |
+| N-01 | `MAIN 四个主入口` / `EXTRA` / `三个问题·先看结论` 眉标与标题 | 来自 `docs/06` §3.10 C 的编辑体版式（`component/EditorialSection.ets:35` 已按长辈模式收起）。原型早于该版式，属**改原型**。**2026-09-24 已回灌原型**（见 §4 的「D-19 ＋ N-01」一节）；其中 `EXTRA` 一项已随 D-04 删卡不存在，全仓只剩两处眉标 |
 | N-02 | ~~「提醒与通知」「无障碍」两张卡~~ | **本行已于 2026-09-24 撤销**：原判定是"Task 4.3/5.3 交付物，原型欠账，改原型"，用户复核后改判为**删 App**，见 D-20 / D-21。这是全表里少数"原型反而比 App 更接近最终形态"的条目 |
 | N-03 | 配对区显示「云端配对暂未开放（需开通 AGC 云服务）」而非两个按钮 | 已定稿的开关策略（`cloudPairing`/`scanPairing` 保持 false）。**不得为对齐原型打开云开关** |
 | N-04 | PaintMonth 画笔行「休息」贴屏外 | `PaintMonth.ets:323-341` 是横向 `Scroll`，可滑到。撤回我此前的"裁切"判断 |
@@ -692,7 +726,7 @@ D-24 与 D-22 同批（同一类"把旧值/空值当事实念出来"）：现象
 D-25 走这批的最后（2026-09-24 复验 D-06 时新发现）：先按 (b) 的最小改法动 `defaultDraft()`，一次提交；若复验后判定要走 (a)（窗口扣作息），另立项，因为它会改首页/卡片/周历三处读数。
 
 **批次 D（P2 与受保护文件）**
-D-12（`ScheduleEditor.ets` 用户 WIP，先确认）、D-14~D-16、D-18；D-19 与 N-01 记进原型待办，改 `docs/prototype/index.html`。
+D-12（`ScheduleEditor.ets` 用户 WIP，先确认）、D-14~D-16、D-18；D-19 与 N-01 记进原型待办，改 `docs/prototype/index.html`。**（2026-09-24：D-19＋N-01 已回灌原型，见 §4 的「D-19 ＋ N-01」一节；D-17 仍缺证据。）**
 2026-09-24 整改 D-25 时新登记三条，一起走这批：**D-26**（`MeView.paramStat` 同规则命中，潜伏、当前不可观测，改法同 D-24）；**D-27**（默认起点可以落在过去，要用户先定口径，定稿前不动代码）；**D-28**（TRIP 通道只避"我"的作息，等代录态取证）。
 2026-09-24 整改 D-16 时新登记一条：**D-29**（父容器上的 `accessibilityLevel('no')` 管不到子 `Text`，两处小时刻度注释与实况相反）。改法只有两行，但先要定范围：只修这两处，还是把全仓 35 处一起审计——**待定范围前不动代码**。
 
